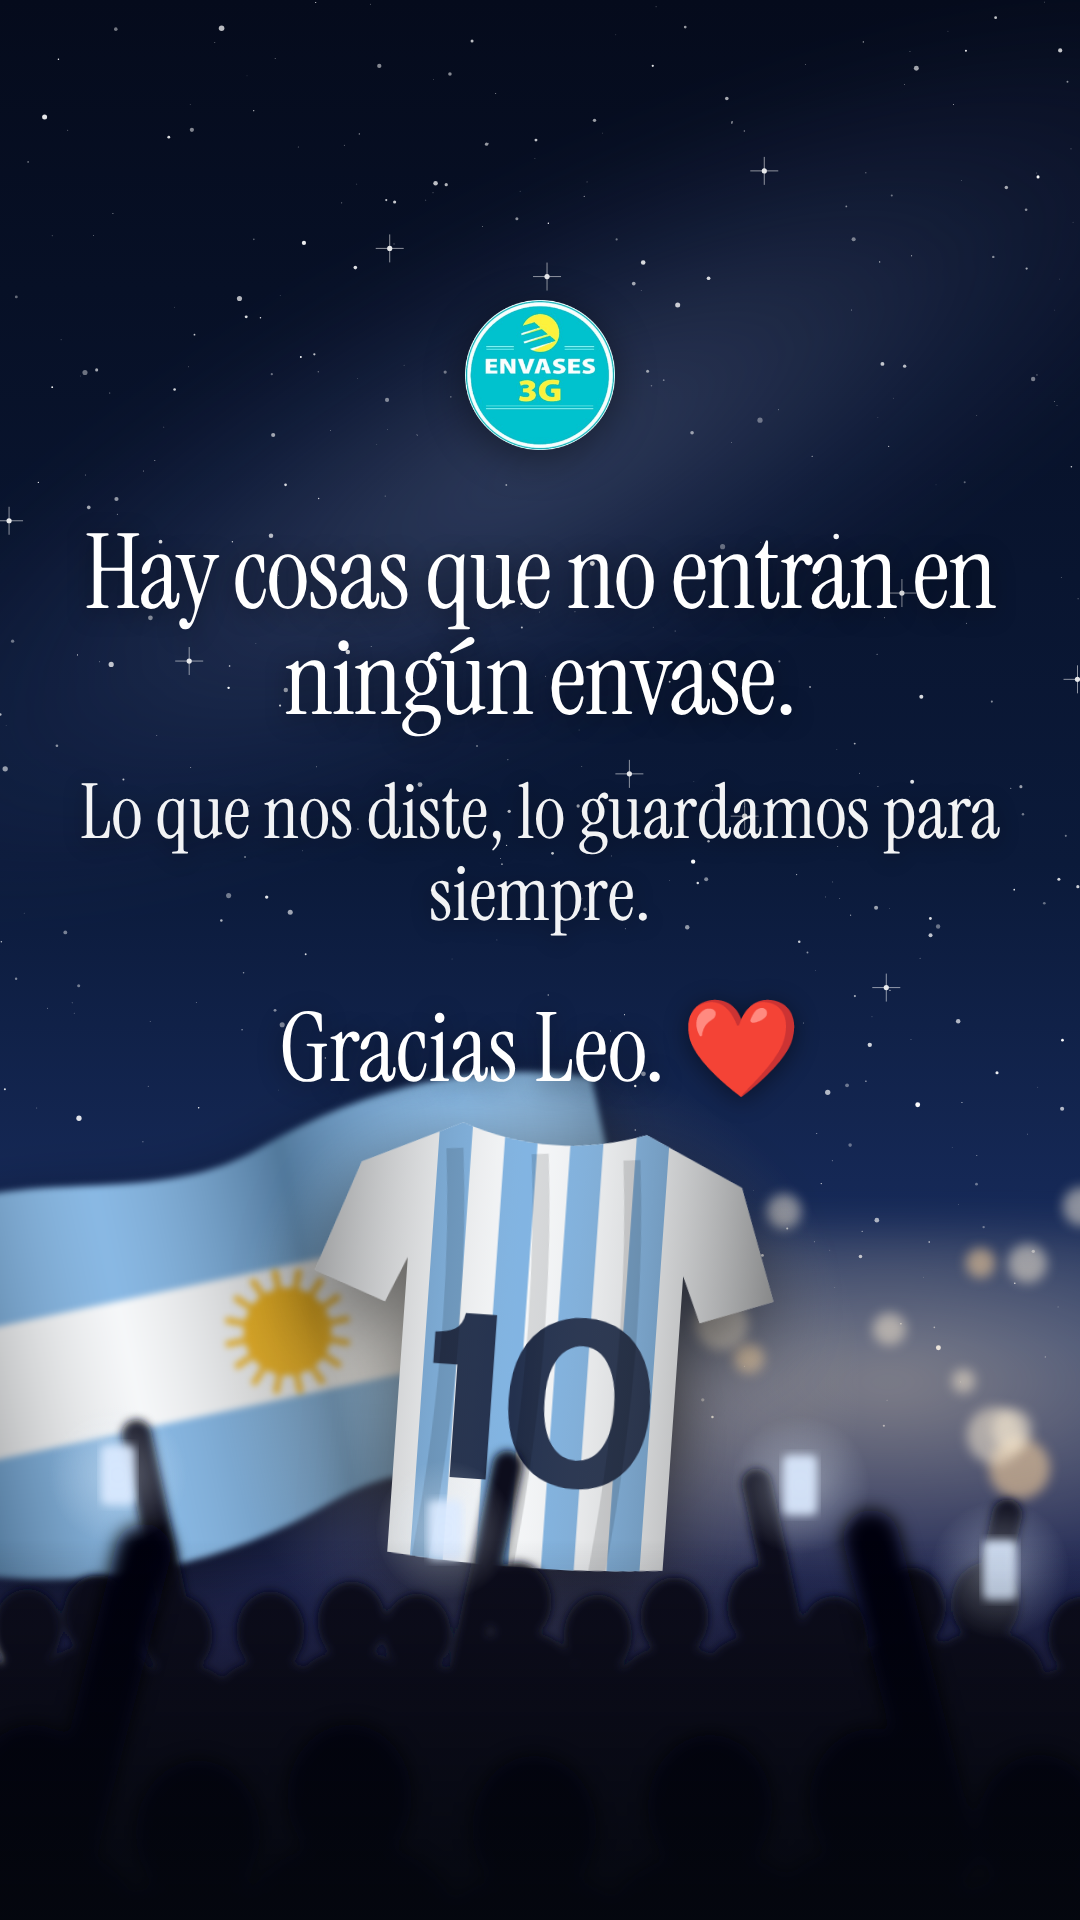
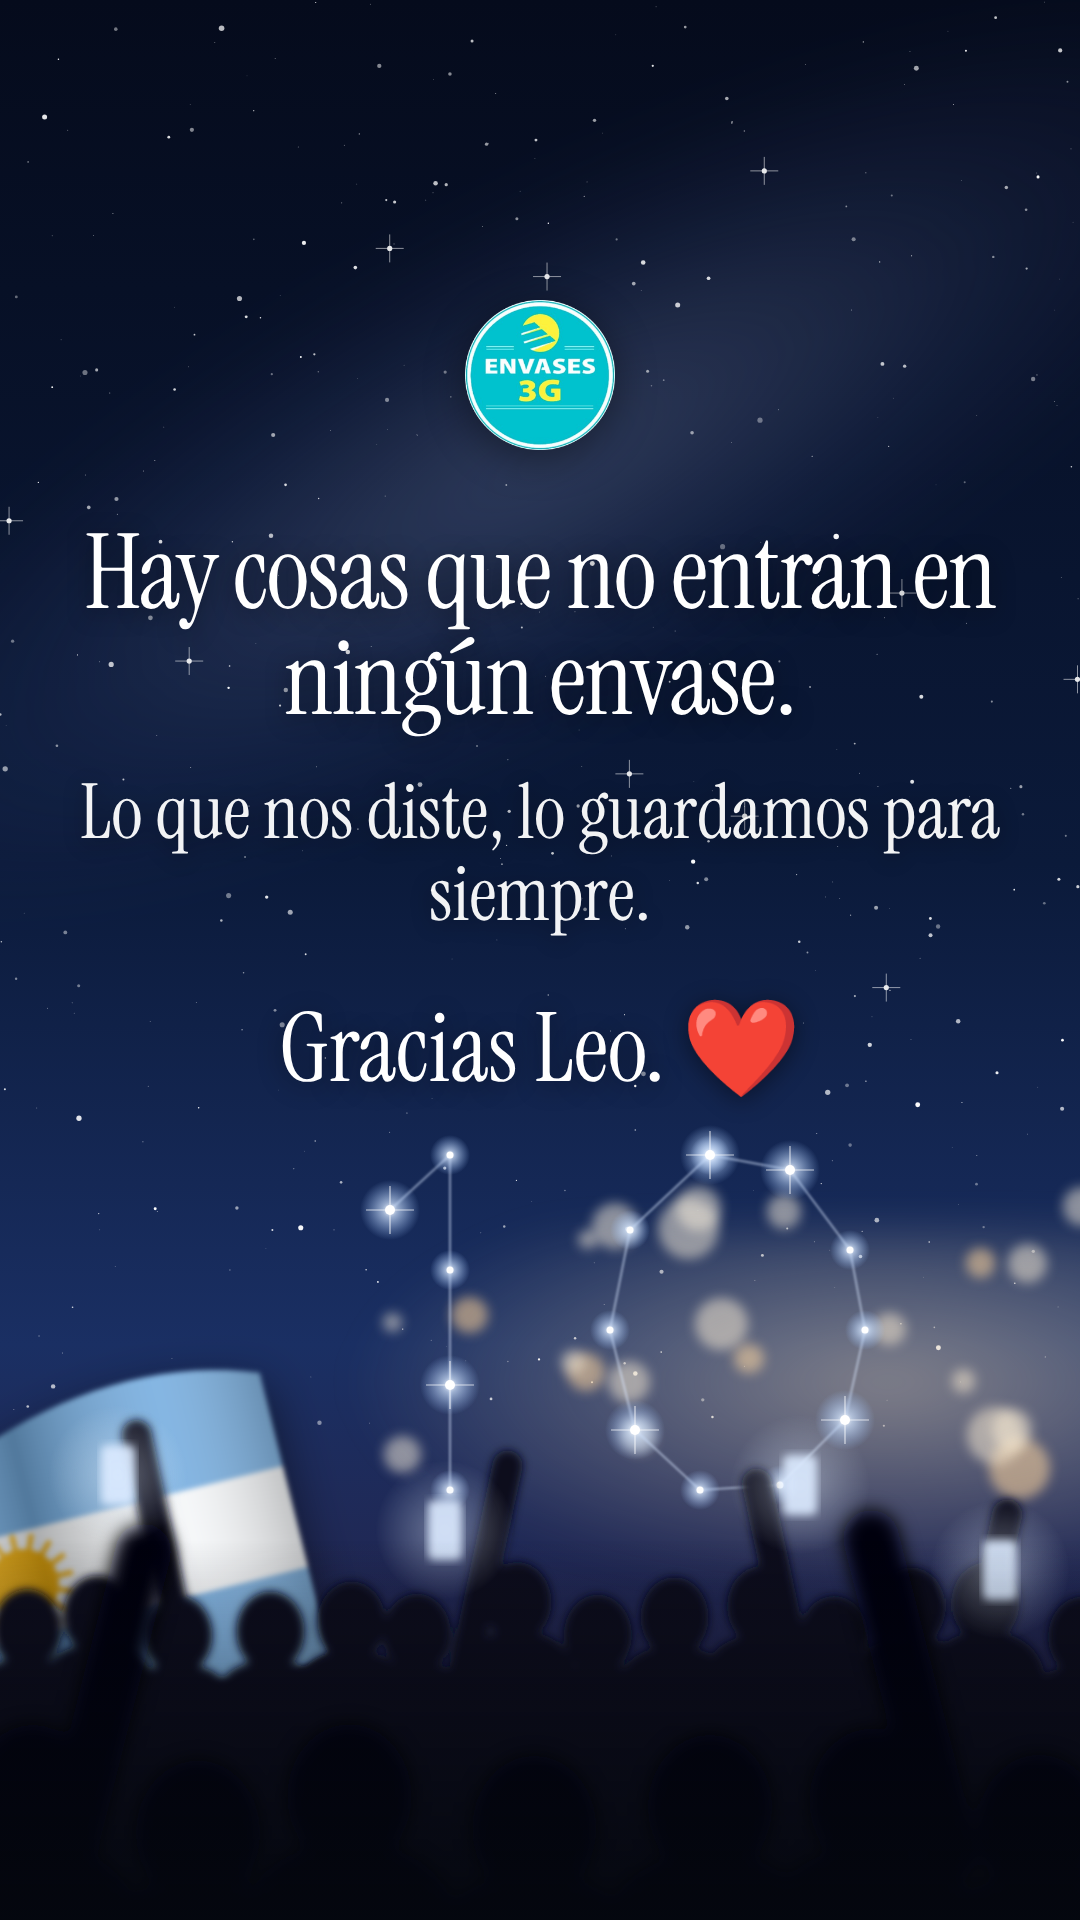
Historia Gracias Leo: el 10 como constelación en lugar de la camiseta
Claude-Session: https://claude.ai/code/session_01XZED4i25WdCZL95YawoaTb

Changed region(s): [[0.0, 0.5312, 0.7639, 0.875], [0.7639, 0.625, 0.825, 0.75], [0.7028, 0.75, 0.7333, 0.7812]]

diff --git a/video/src/MessiStory.tsx b/video/src/MessiStory.tsx
@@ -29,7 +29,7 @@ const Stars: React.FC = () => (
 const Flag: React.FC = () => {
   const wave = (yy: number) => `M0 ${yy} C 120 ${yy - 40}, 240 ${yy + 40}, 360 ${yy} S 600 ${yy - 40}, 700 ${yy}`;
   return (
-    <svg width="760" height="520" viewBox="0 0 760 520" style={{ position: "absolute", left: -60, top: 1080, rotate: "-12deg", filter: "blur(3px) drop-shadow(0 20px 30px rgba(0,0,0,.5))" }}>
+    <svg width="760" height="520" viewBox="0 0 760 520" style={{ position: "absolute", left: -330, top: 1330, rotate: "-14deg", scale: ".8", filter: "blur(3px) drop-shadow(0 20px 30px rgba(0,0,0,.5))" }}>
       <defs>
         <clipPath id="flagClip"><path d={`${wave(60)} L700 420 C 600 460, 480 380, 360 420 S 120 460, 0 420 Z`} /></clipPath>
         <linearGradient id="fold" x1="0" x2="1"><stop offset="0" stopColor="#000" stopOpacity=".35" /><stop offset=".25" stopColor="#fff" stopOpacity=".15" /><stop offset=".5" stopColor="#000" stopOpacity=".3" /><stop offset=".75" stopColor="#fff" stopOpacity=".12" /><stop offset="1" stopColor="#000" stopOpacity=".4" /></linearGradient>
@@ -74,6 +74,34 @@ const Crowd: React.FC = () => (
   </svg>
 );
 
+// "10" dibujado con estrellas unidas por líneas finas (constelación).
+const C10: [number, number][][] = [
+  [[300, 1250], [360, 1195], [360, 1310], [360, 1425], [360, 1530]],
+  [[620, 1195], [700, 1210], [760, 1290], [775, 1370], [755, 1460], [690, 1525], [610, 1530], [545, 1470], [520, 1370], [540, 1270], [620, 1195]],
+];
+const Constellation: React.FC = () => (
+  <svg width={W} height={H} style={{ position: "absolute", left: 90, top: -40 }}>
+    <defs>
+      <radialGradient id="glow"><stop offset="0" stopColor="#fff" stopOpacity="1" /><stop offset=".25" stopColor="#cfe3ff" stopOpacity=".7" /><stop offset="1" stopColor="#9cc4ff" stopOpacity="0" /></radialGradient>
+      <filter id="soft"><feGaussianBlur stdDeviation="1.2" /></filter>
+    </defs>
+    {/* halo general */}
+    {C10.map((pts, k) => (
+      <polyline key={k} points={pts.map((p) => p.join(",")).join(" ")} fill="none" stroke="#d9e8ff" strokeOpacity=".55" strokeWidth="2" filter="url(#soft)" />
+    ))}
+    {C10.flat().map(([x, y], i) => {
+      const big = i % 3 === 0;
+      return (
+        <g key={i}>
+          <circle cx={x} cy={y} r={big ? 30 : 20} fill="url(#glow)" />
+          <circle cx={x} cy={y} r={big ? 5 : 3.5} fill="#fff" />
+          {big ? <path d={`M${x - 24} ${y} H${x + 24} M${x} ${y - 24} V${y + 24}`} stroke="#fff" strokeOpacity=".7" strokeWidth="1.2" /> : null}
+        </g>
+      );
+    })}
+  </svg>
+);
+
 export const GraciasLeoStory: React.FC = () => (
   <AbsoluteFill style={{ background: "linear-gradient(180deg, #050b1c 0%, #0b1a3a 45%, #1a2f63 70%, #2a1d3d 100%)", overflow: "hidden" }}>
     {/* Vía láctea */}
@@ -89,25 +117,8 @@ export const GraciasLeoStory: React.FC = () => (
 
     <Flag />
 
-    {/* Foco de luz detrás de la camiseta */}
-    <div style={{ position: "absolute", left: 540 - 380, top: 1000, width: 760, height: 760, borderRadius: "50%", background: "radial-gradient(circle, rgba(255,235,200,.35), rgba(255,235,200,0) 60%)" }} />
-    {/* Camiseta 10 en alto */}
-    <div style={{ position: "absolute", left: 540 - 230, top: 1115, width: 460, height: 460, rotate: "4deg", filter: "drop-shadow(0 30px 40px rgba(0,0,0,.55))" }}>
-      <svg width="460" height="460" viewBox="0 0 700 700">
-        <defs>
-          <clipPath id="shirt2"><path d="M210 20 Q350 70 490 20 L640 90 L700 260 L590 300 L560 230 L560 680 Q350 700 140 680 L140 230 L110 300 L0 260 L60 90 Z" /></clipPath>
-          <linearGradient id="shirtShade" x1="0" x2="1"><stop offset="0" stopColor="#000" stopOpacity=".35" /><stop offset=".45" stopColor="#fff" stopOpacity=".1" /><stop offset="1" stopColor="#000" stopOpacity=".45" /></linearGradient>
-        </defs>
-        <g clipPath="url(#shirt2)">
-          <rect width="700" height="700" fill="#f4f6f8" />
-          {[0, 1, 2, 3].map((i) => <rect key={i} x={175 + i * 100} width="50" height="700" fill={CEL} />)}
-          <text x="350" y="560" textAnchor="middle" fontFamily="Bricolage" fontWeight="700" fontSize="380" letterSpacing="-20" fill="#0b1a3a">10</text>
-          <rect width="700" height="700" fill="url(#shirtShade)" />
-          {[200, 330, 470].map((x, i) => <path key={i} d={`M${x} 60 Q${x + 30} 350 ${x - 10} 690`} stroke="#000" strokeOpacity=".12" strokeWidth="26" fill="none" />)}
-        </g>
-      </svg>
-    </div>
-
+    {/* El 10 como constelación */}
+    <Constellation />
     <Crowd />
     <div style={{ position: "absolute", left: 0, right: 0, bottom: 0, height: 380, background: "linear-gradient(rgba(5,8,15,0), rgba(5,8,15,.85))" }} />
 
